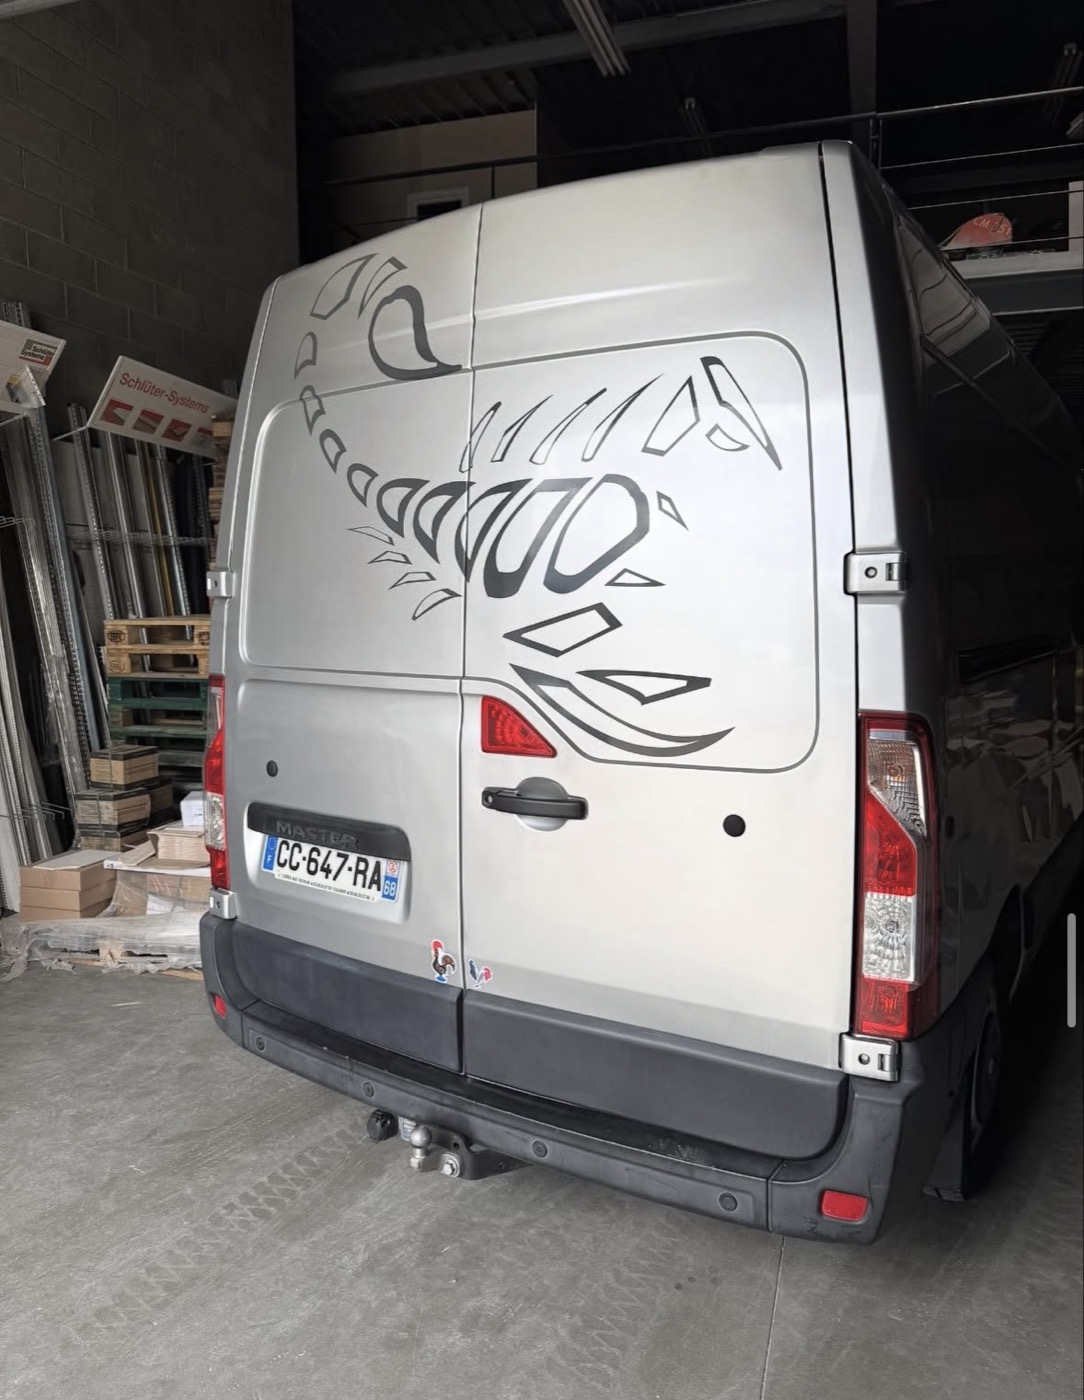
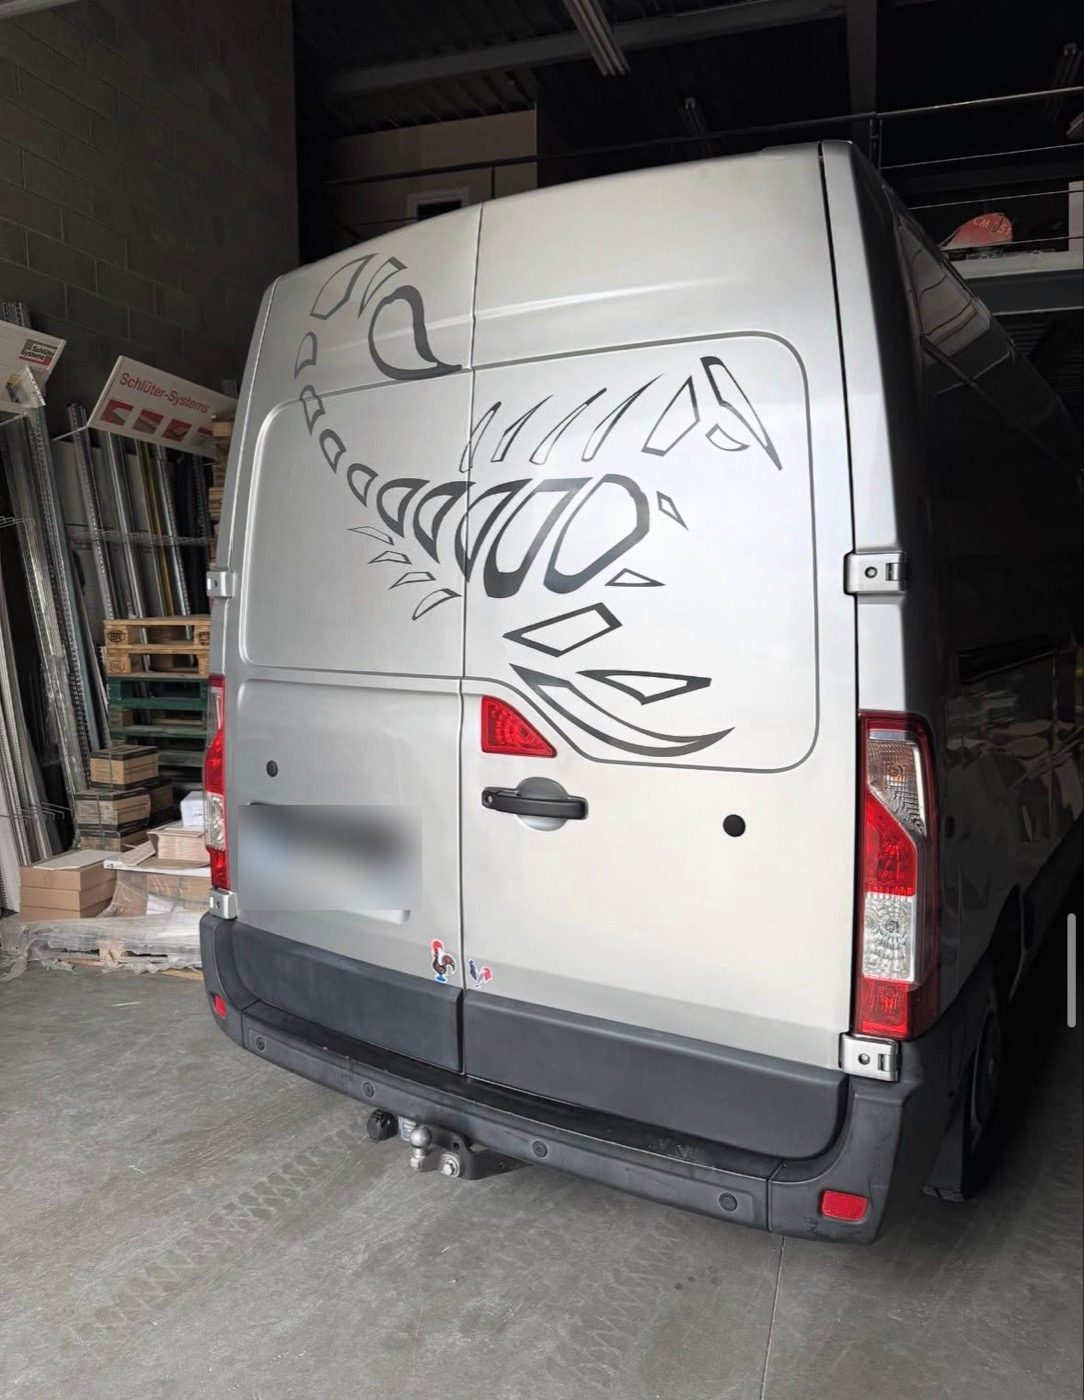
Accueil senior UX : section enseignes/panneaux/véhicules, vraies photos atelier+flyers, copy commande directe, plaque floutée

Changed region(s): [[0.2131, 0.5529, 0.3958, 0.645], [0.4566, 0.5221, 0.4871, 0.5529]]

diff --git a/components/home/HomeSignaletique.tsx b/components/home/HomeSignaletique.tsx
@@ -1,0 +1,112 @@
+import Image from "next/image";
+import Link from "next/link";
+import { ArrowRight, Lamp, PanelsTopLeft, Car } from "lucide-react";
+
+/**
+ * HomeSignaletique — enseignes, panneaux et véhicules sur l'accueil.
+ * Demande Kaan 2026-06-10 : pousser les métiers atelier (enseignes, panneaux
+ * chantier, habillage véhicule) avec les vraies photos — parcours devis 24h,
+ * pas de prix affiché (fabrication sur mesure).
+ */
+
+const ITEMS = [
+  {
+    icon: Lamp,
+    label: "Enseignes lumineuses",
+    line: "Lettres rétroéclairées, caissons — fabriquées et posées par nous.",
+    image: "/images/realisations/naga-enseigne.jpg",
+    alt: "Enseigne lumineuse Le Naga posée de nuit",
+  },
+  {
+    icon: PanelsTopLeft,
+    label: "Panneaux & signalétique",
+    line: "Panneaux de chantier, vitrines, totems, bâches grand format.",
+    image: "/images/realisations/illico-panneau.jpg",
+    alt: "Panneau de chantier imprimé pour illiCO travaux",
+  },
+  {
+    icon: Car,
+    label: "Habillage véhicule",
+    line: "Lettrage, covering partiel, flocage utilitaire ou flotte.",
+    image: "/images/realisations/exo-solar-vehicule.jpg",
+    alt: "Véhicule Exo Solar lettré devant l'agence HM Global",
+  },
+] as const;
+
+export default function HomeSignaletique() {
+  return (
+    <section className="py-14 sm:py-20" style={{ background: "#fff" }}>
+      <div className="container">
+        <div className="mb-10 flex flex-col gap-5 lg:flex-row lg:items-end lg:justify-between">
+          <div className="max-w-2xl">
+            <p className="mb-2.5 text-[10px] font-semibold uppercase tracking-[0.22em]" style={{ color: "var(--hm-cyan)" }}>
+              Atelier · Sur mesure
+            </p>
+            <h2
+              className="font-semibold leading-[1.08] tracking-[-0.02em]"
+              style={{ fontSize: "clamp(1.5rem, 2.6vw + 0.4rem, 2.3rem)", color: "var(--hm-text-main)" }}
+            >
+              Enseignes, panneaux, véhicules :{" "}
+              <span style={{ color: "var(--hm-violet)" }}>fabriqué et posé par l&apos;atelier</span>.
+            </h2>
+            <p className="mt-3 max-w-[44rem] text-[13.5px] leading-6" style={{ color: "var(--hm-text-muted-2)" }}>
+              Du sur-mesure qui ne passe pas par un configurateur : envoyez votre
+              besoin, on chiffre sous 24h ouvrées, on fabrique, on pose.
+            </p>
+          </div>
+          <Link href="/devis-rapide" className="btn-hm-violet-outline shrink-0 self-start lg:self-auto">
+            Demander un devis 24h
+            <ArrowRight size={14} />
+          </Link>
+        </div>
+
+        <div className="grid gap-4 sm:grid-cols-3 lg:gap-5">
+          {ITEMS.map((item) => (
+            <Link
+              key={item.label}
+              href="/devis-rapide"
+              className="group relative flex h-full flex-col overflow-hidden rounded-[1.4rem] bg-white transition duration-300 hover:-translate-y-1"
+              style={{ border: "1px solid rgba(45,35,64,0.08)", boxShadow: "0 6px 18px rgba(45,35,64,0.04)" }}
+            >
+              <div className="relative aspect-[4/3] overflow-hidden" style={{ background: "#f6f7f9" }}>
+                <Image
+                  src={item.image}
+                  alt={item.alt}
+                  fill
+                  sizes="(min-width:640px) 32vw, 95vw"
+                  className="object-cover transition duration-500 group-hover:scale-[1.03]"
+                />
+                <span aria-hidden="true" className="absolute inset-x-0 bottom-0 h-[3px]" style={{ background: "var(--hm-cyan)" }} />
+              </div>
+              <div className="flex flex-1 flex-col gap-2.5 p-5">
+                <div className="flex items-start gap-3">
+                  <div
+                    className="flex h-8 w-8 shrink-0 items-center justify-center rounded-lg"
+                    style={{ background: "rgba(84,182,210,0.10)", color: "var(--hm-cyan)" }}
+                  >
+                    <item.icon size={15} strokeWidth={1.8} />
+                  </div>
+                  <div className="flex-1">
+                    <h3 className="text-[14px] font-semibold leading-snug tracking-[-0.01em]" style={{ color: "var(--hm-text-main)" }}>
+                      {item.label}
+                    </h3>
+                    <p className="mt-1 text-[12px] leading-5" style={{ color: "var(--hm-text-muted-2)" }}>
+                      {item.line}
+                    </p>
+                  </div>
+                </div>
+                <span
+                  className="mt-auto inline-flex items-center justify-between gap-1.5 border-t pt-3 text-[11.5px] font-semibold transition group-hover:gap-2.5"
+                  style={{ borderColor: "rgba(84,182,210,0.16)", color: "var(--hm-cyan)" }}
+                >
+                  Devis sous 24h
+                  <ArrowRight size={12} />
+                </span>
+              </div>
+            </Link>
+          ))}
+        </div>
+      </div>
+    </section>
+  );
+}

diff --git a/components/home/HomeAtelier.tsx b/components/home/HomeAtelier.tsx
@@ -47,8 +47,8 @@ function AtelierImage() {
 
   return (
     <Image
-      src="/images/home/hm-atelier-production-textile.webp"
-      alt="Production HM Global en atelier : un opérateur utilise la presse à chaud pour transférer un design sur textile."
+      src="/images/realisations/miammi-fabrication.jpg"
+      alt="Atelier HM Global : lettres d'enseigne rétroéclairées MiAMMi en cours d'assemblage."
       fill
       sizes="100vw"
       className="object-cover"
@@ -123,8 +123,9 @@ export default function HomeAtelier() {
                   className="mt-3 max-w-[36rem] text-[13.5px] leading-[1.65]"
                   style={{ color: "rgba(255,255,255,0.82)" }}
                 >
-                  Chaque commande est vérifiée par notre équipe avant d&apos;être
-                  produite ou transmise au bon partenaire.
+                  Textile à la presse, enseignes assemblées sur place, pose en
+                  façade : chaque commande est vérifiée par notre équipe avant
+                  production.
                 </p>
               </div>
             </div>

diff --git a/components/home/HomeTrustStrip.tsx b/components/home/HomeTrustStrip.tsx
@@ -1,4 +1,4 @@
-import { ShieldCheck, HeartHandshake, Layers, FileText } from "lucide-react";
+import { ShieldCheck, MapPin, Layers, FileText } from "lucide-react";
 
 /**
  * HomeTrustStrip — Bandeau confiance, 4 items courts.
@@ -18,9 +18,9 @@ const TRUST_ITEMS = [
     tone:  "cyan",
   },
   {
-    icon:  HeartHandshake,
-    title: "Accompagnement humain",
-    desc:  "Un interlocuteur dédié, du fichier source à la livraison.",
+    icon:  MapPin,
+    title: "Depuis 2018 à Souffelweyersheim",
+    desc:  "Un vrai atelier alsacien — et 410 élèves accueillis via Erasmus.",
     tone:  "cyan",
   },
   {

diff --git a/components/home/HomeVisualShowcase.tsx b/components/home/HomeVisualShowcase.tsx
@@ -52,7 +52,7 @@ const ITEMS: ShowcaseItem[] = [
     icon:  FileText,
     label: "Flyers & brochures",
     line:  "A6 à A4 · 170 g/m² couché · dès 31,90 €",
-    image: "/images/home/hm-print-flyers.webp",
+    image: "/images/realisations/ncm-flyers.jpg",
     href:  "/impression/flyer-a5",
     accent: "var(--hm-magenta)",
     fallbackGradient: "linear-gradient(135deg, #D64A9A 0%, #C13C8A 55%, #4B2A6F 100%)",
@@ -156,8 +156,8 @@ export default function HomeVisualShowcase() {
               className="mt-3 max-w-[44rem] text-[13.5px] leading-6"
               style={{ color: "var(--hm-text-muted-2)" }}
             >
-              Cartes, flyers, affiches ou canvas : envoyez votre fichier ou
-              votre brief, on cadre le devis et le BAT avant production.
+              Cartes, flyers, affiches ou canvas : créez votre visuel dans
+              l&apos;atelier en ligne, validez le BAT et commandez au prix affiché.
             </p>
           </div>
           <Link
@@ -229,7 +229,7 @@ export default function HomeVisualShowcase() {
                       color: item.accent,
                     }}
                   >
-                    Demander un devis
+                    Commander en ligne
                     <ArrowRight size={12} />
                   </span>
                 </div>

diff --git a/app/page.tsx b/app/page.tsx
@@ -6,6 +6,7 @@ import BestSellers from "../components/home/BestSellers";
 import HomeProcessBAT from "../components/home/HomeProcessBAT";
 import HomeRealisations from "../components/home/HomeRealisations";
 import HomeVisualShowcase from "../components/home/HomeVisualShowcase";
+import HomeSignaletique from "../components/home/HomeSignaletique";
 import HomeAtelier from "../components/home/HomeAtelier";
 import HomePack360 from "../components/home/HomePack360";
 import HomeTrustStrip from "../components/home/HomeTrustStrip";
@@ -37,6 +38,7 @@ export default function HomePage() {
       <HomeProcessBAT />
       <HomeRealisations />
       <HomeVisualShowcase />
+      <HomeSignaletique />
       <HomeAtelier />
       <HomePack360 />
       <HomeTrustStrip />